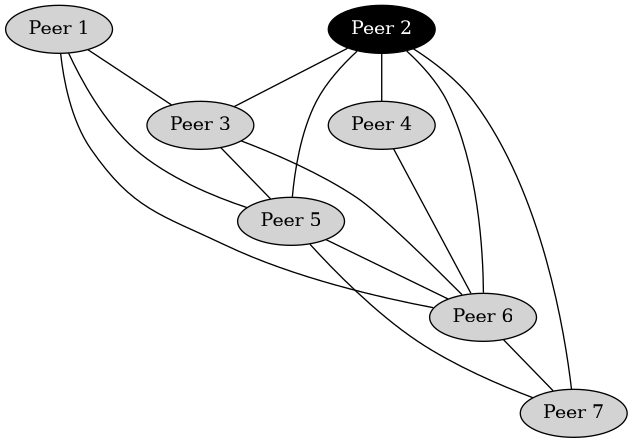
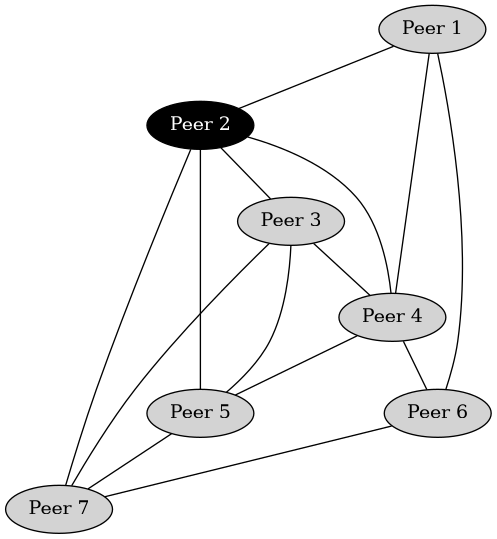
adaptive network topology [done]

diff --git a/pages/adaptive-perception-of-network-topology.html b/pages/adaptive-perception-of-network-topology.html
@@ -63,7 +63,8 @@
                     protocol by forwarding messages to peers who hasn't yet seen certain message.
                     Each peer authors its own message & helps in forwarding peer-authored messages
                     while playing role of <b>hop</b>. By inspecting message body, node learns
-                    of which hops has helped in forwarding certain message & pictures network structure.
+                    of which hops has helped in forwarding certain message & pictures path in network. A few
+                    of these messages, traversed through different paths, helps in forming substantial portion of network graph.
                     <br>
                     <br>
                     Last week I wrote about it <a class="blogLink" href="../pages/perceiving-p2p-topology.html">here</a>.
@@ -86,7 +87,7 @@
                     I consider each participant of p2p network as <b>vertex</b>
                     & each TCP connection between a pair of them as an <b>edge</b>, while picturing
                     p2p overlay network as graph. P2P networks keep changing
-                    their shape frequently, due to some node going down or network partition
+                    their structure frequently, due to some node going down or network partition
                     occuring, which is why node's world view should be adapting to those changes.
                     I name, TCP connection being established between two peers as <b>edge added event</b>,
                     whereas disconnection of two peers triggers <b>edge removed event</b>. When either
@@ -140,7 +141,7 @@
                     Similarly when disconnection between two peers occur, edge removed event is propagated.
                     But this time each of those affected nodes, author their own message with kind set to <b>del</b>
                     and puts edge description in terms of ( previously ) incident node identifiers, so that when other participants receive
-                    message they can delete this edge from their locally maintained view network.
+                    message they can delete this edge from their locally maintained view of network.
                 </p>
                 <div class="microlight">
  // announce it to all neighbours
@@ -186,7 +187,7 @@
         forward? = inspect(msg)
         if forward?:
             // so that network structure can be pictured
-            msg = append_hop(msg)
+            msg = append_hop(msg, :self)
             propagate(msg, forward_to(msg))
         endif
     endwhile
@@ -217,7 +218,7 @@
                     in graph.
                     <br>
                     <br>
-                    Randomly generated simulation setup has 7 nodes & 14 edges, where peer_1
+                    Randomly generated simulation setup has 7 nodes & 15 edges, where peer_1
                     probes, as a result of it everyone pictures whole world. This is how peer_1 sees
                     world around itself after running probing step.
                 </p>
@@ -233,12 +234,12 @@
                 <p class="blogText">
                     I plot collected metrics i.e. data transferred over each edge ( read TCP connection )
                     for collaborative probing. I see some edges carrying more data compared to others due to
-                    presence of important vertices i.e. some vertex has even degree 6 <i>( max possible )</i>.
+                    presence of important vertices i.e. vertices having >= 3 edges, where they can have at max 6.
                 </p>
                 <img class="imgCenter" src="../images/adaptive-network-topology-probe-cost.png">
                 <p class="blogText">
                     I trigger edge disconnection & let disconnection message get propagated throughout network.
-                    I find Peer 1 looses connection with Peer 3, so both of them must remove
+                    I find Peer 1 looses connection with Peer 4, so both of them must remove
                     that edge from their local view of network --- which they do.
                 </p>
                 <img class="imgCenter" src="../images/adaptive-network-topology-peer-1-edge-del.png">
@@ -252,25 +253,65 @@
                     towards its network wide propagation is captured in following cost graph.
                     <br>
                     <br>
-                    After a careful inspection, I see connection <i>Peer 1 <-> Peer 3</i> & <i>Peer 1 <-> Peer 2</i>
+                    After a careful inspection, I see connection <i>Peer 1 <-> Peer 4</i> & <i>Peer 1 <-> Peer 3</i>
                     doesn't anyhow contribute to forwarding of <b>edge removed</b> message, which is desired
                     behaviour because none of these edges exist in graph as of now.
-                    Link between <i>Peer 1</i> & <i>Peer 3</i> just got failed, while <i>Peer 1</i> & <i>Peer 2</i> is going to
+                    Link between <i>Peer 1</i> & <i>Peer 4</i> just got failed, while <i>Peer 1</i> & <i>Peer 3</i> is going to
                     get connected in next step of simulation.
                 </p>
                 <img class="imgCenter" src="../images/adaptive-network-topology-del-cost.png">
                 <p class="blogText">
                     Finally it's time to simulate random connection establishment between a pair of peers. 
                     After <b>edge added</b> message passing has stabilised, I take a look at world view of Peer 1, finding
-                    existence of new edge between Peer 1 & Peer 2.
+                    existence of new edge between Peer 1 & Peer 3.
                 </p>
                 <img class="imgCenter" src="../images/adaptive-network-topology-peer-1-edge-add.png">
                 <p class="blogText">
-                    For understanding whether Peer 3 has learned of this change in topology, I snapshot
+                    For understanding whether Peer 7 has learned of this change in topology, I snapshot
                     its world view at this point of time. As expected all other peers who were not involved
                     in connection establishment ( i.e. none of incident vertices ) has correctly learned change.
                 </p>
-                <img class="imgCenter" src="../images/adaptive-network-topology-peer-3-edge-add.png">
+                <img class="imgCenter" src="../images/adaptive-network-topology-peer-7-edge-add.png">
+                <p class="blogText">
+                    Cost analysis shows newly created edge i.e. <i>Peer 1 <-> Peer 3</i> carrying
+                    edge addition message, while <i>Peer 1 <-> Peer 4</i> doing nothing, because it doesn't
+                    exist anymore.
+                </p>
+                <img class="imgCenter" src="../images/adaptive-network-topology-add-cost.png">
+                <p class="blogText">
+                    Results of simulation seem promising for dynamically adapting world view to network
+                    state changes. Peers can even colloborate on when to probe, avoiding chances of
+                    simultaneous probing, because if one peer starts probing, all will be benefitting from it.
+                    <br>
+                    <br>
+                    I keep code used for simulating & generating these findings <a class="blogLink" href="https://github.com/itzmeanjan/p2p/tree/main/v2">here</a>.
+                    <br>
+                    <br>
+                    I note few points for further exploration,
+                </p>
+                <ul>
+                    <li>
+                        Each process remembers whether certain <b>{addition, deletion}</b> message has been forwarded
+                        instead of using message itself for keeping track of it --- saves some bandwidth.
+                    </li>
+                    <li>
+                        Peers signing messages to cryptographically assert probe message indeed
+                        hopped through them.
+                    </li>
+                    <li>
+                        Using edge addition message to propagate peer address throughout network, allowing
+                        anyone interested to attempt connection with it.
+                    </li>
+                    <li>
+                        Using world view to take better routing decision.
+                    </li>
+                    <li>
+                        Dynamically graft edges forming faster path to distant vertex.
+                    </li>
+                    <li>
+                        Pruning edges to reduce duplicate paths --- reducing data transfer cost.
+                    </li>
+                </ul>
             </article>
         </div>
     </div>
